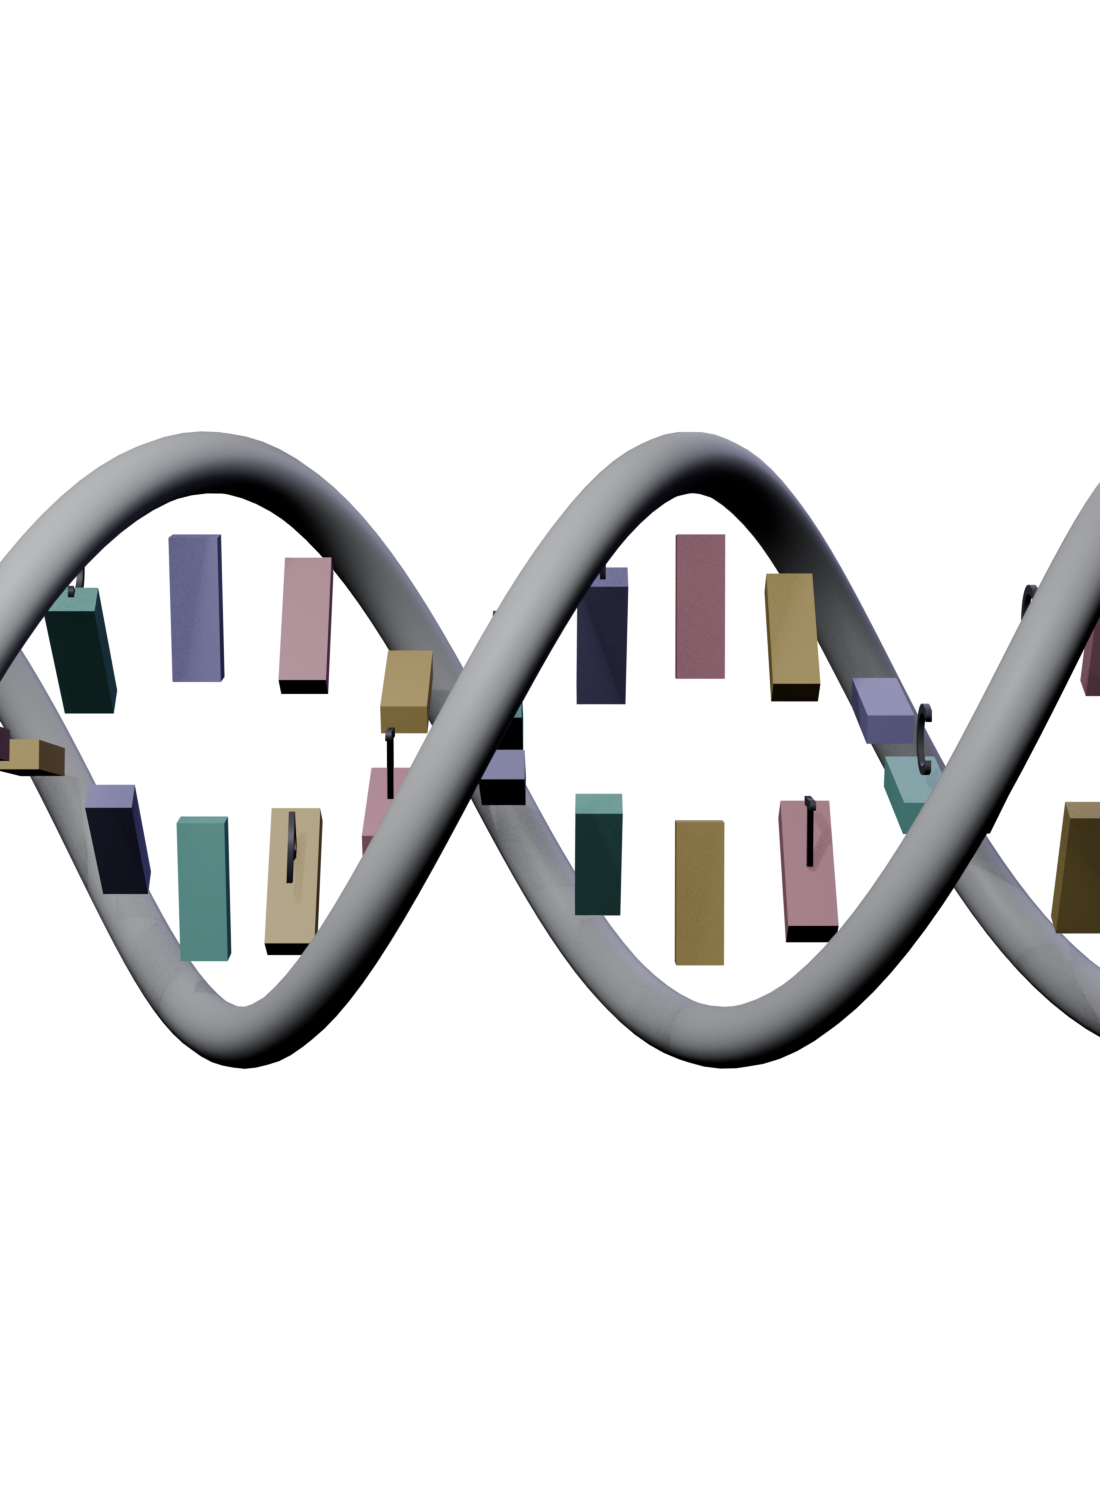
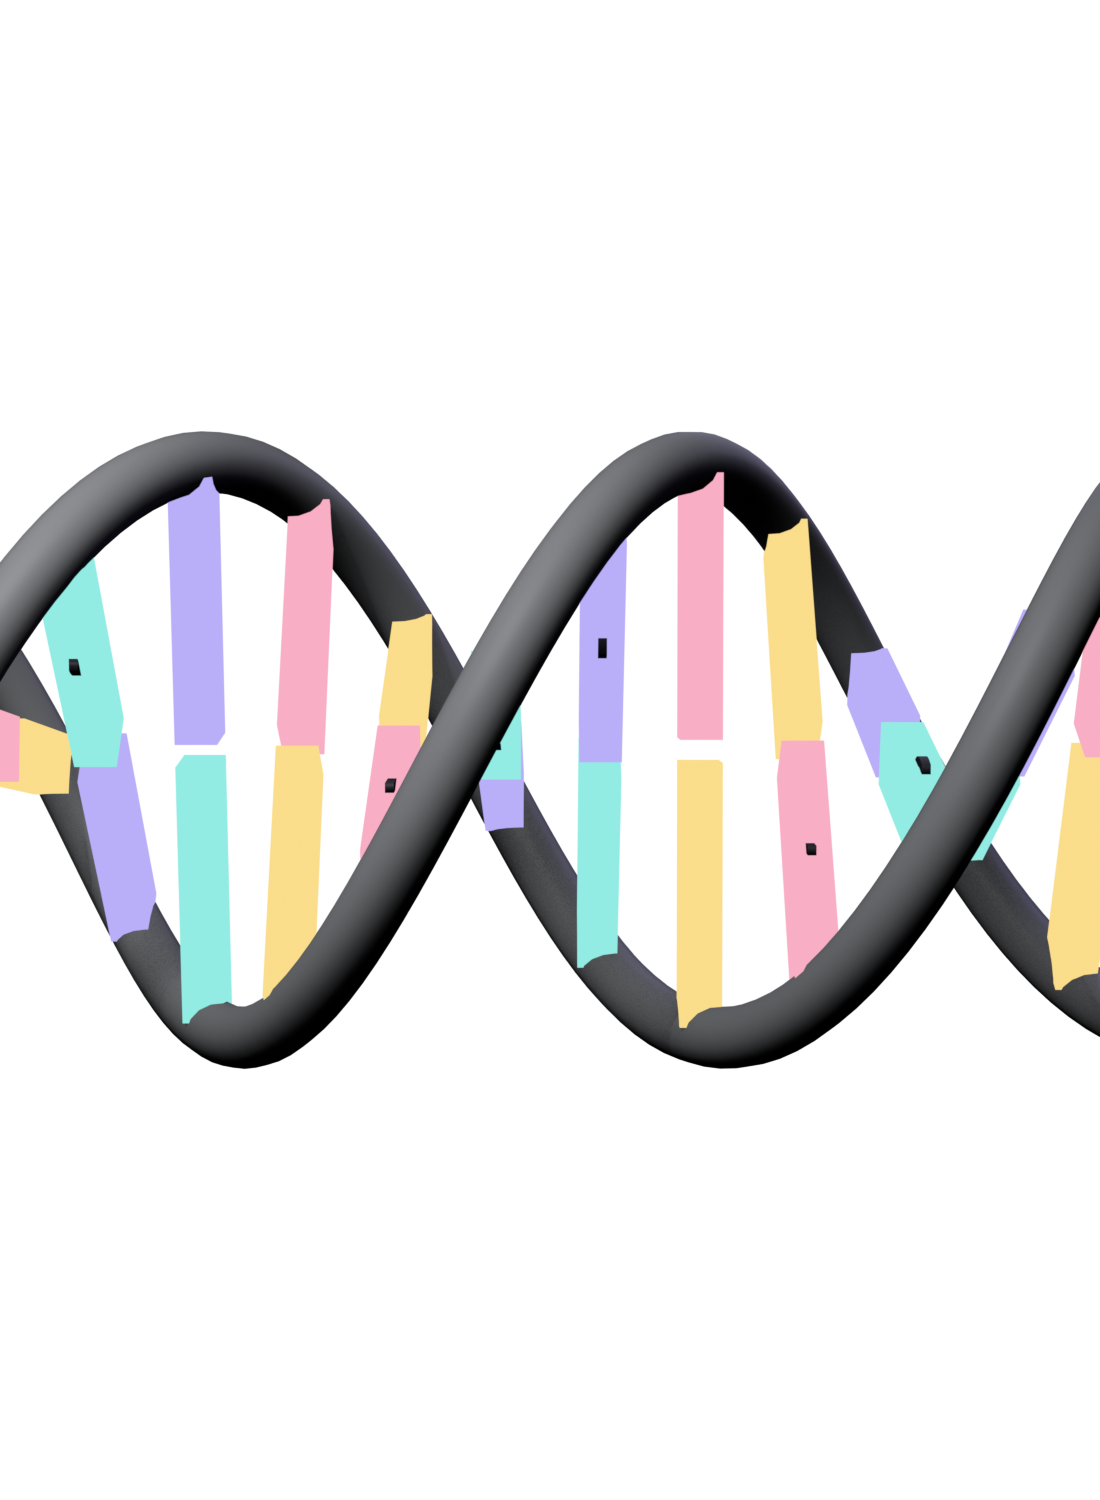
DNA: illustrated helix view + 3D/Illustrated toggle + base legend; add @types/three
- Re-rendered the illustrated ribbon-helix in Blender with vivid page-palette
  base pairs (Standard view transform fixes the pastel washout; emission shaders;
  distinct rungs).
- Helix section now toggles between '3D interactive' (live R3F) and 'Illustrated'
  (the Blender render), with a per-nucleotide legend (A/C/G/T names + pairing).
- Adds @types/three (audit finding): cuts app-code type errors 99 -> 15; the
  rest are pre-existing universe-engine R3F JSX typings.

Changed region(s): [[0.0, 0.276, 1.0, 0.7053]]

diff --git a/components/dna/dna-visualization.tsx b/components/dna/dna-visualization.tsx
@@ -6,6 +6,7 @@
  * the decrypted abstract summary (no raw loci).
  */
 
+import { useState } from "react"
 import dynamic from "next/dynamic"
 import { motion } from "framer-motion"
 import type { DnaSummary } from "@/lib/dna-crypto"
@@ -25,6 +26,7 @@ function fmt(n: number) {
 }
 
 export function DnaVisualization({ data }: { data: DnaSummary }) {
+  const [helixView, setHelixView] = useState<"3d" | "illustrated">("3d")
   const maxSnps = Math.max(...data.chromosomes.map((c) => c.snps))
   const { homozygous, heterozygous, noCall } = data.genotypeClasses
   const totalCalls = homozygous + heterozygous + noCall || 1
@@ -32,10 +34,10 @@ export function DnaVisualization({ data }: { data: DnaSummary }) {
   const homPct = ((homozygous / totalCalls) * 100).toFixed(1)
 
   const legend = [
-    { base: "A", color: "#f5b942", pair: "T" },
-    { base: "C", color: "#4ad6c4", pair: "G" },
-    { base: "G", color: "#7c6cf0", pair: "C" },
-    { base: "T", color: "#f06c8d", pair: "A" },
+    { base: "A", name: "Adenine", color: "#f5b942", pair: "T" },
+    { base: "C", name: "Cytosine", color: "#4ad6c4", pair: "G" },
+    { base: "G", name: "Guanine", color: "#7c6cf0", pair: "C" },
+    { base: "T", name: "Thymine", color: "#f06c8d", pair: "A" },
   ]
 
   return (
@@ -107,26 +109,94 @@ export function DnaVisualization({ data }: { data: DnaSummary }) {
         <DnaInheritance traits={data.traits} />
       )}
 
-      {/* Helix */}
+      {/* Helix — switchable between the live 3D render and the illustration */}
       <section>
-        <div className="flex items-baseline gap-4 mb-6">
-          <span aria-hidden className="block w-12 h-px bg-accent" />
-          <h2 className="font-display text-2xl md:text-3xl font-light tracking-[-0.01em]">
-            The double helix
-          </h2>
+        <div className="flex flex-wrap items-baseline justify-between gap-4 mb-6">
+          <div className="flex items-baseline gap-4">
+            <span aria-hidden className="block w-12 h-px bg-accent" />
+            <h2 className="font-display text-2xl md:text-3xl font-light tracking-[-0.01em]">
+              The double helix
+            </h2>
+          </div>
+          {/* View switcher */}
+          <div className="inline-flex rounded-full border border-border p-0.5 bg-background">
+            {([
+              ["3d", "3D interactive"],
+              ["illustrated", "Illustrated"],
+            ] as const).map(([key, label]) => (
+              <button
+                key={key}
+                type="button"
+                onClick={() => setHelixView(key)}
+                data-cursor-hover
+                aria-pressed={helixView === key}
+                className={`
+                  font-mono text-[10px] tracking-widest uppercase px-3 py-2 rounded-full min-h-9
+                  transition-colors
+                  ${helixView === key ? "bg-accent/15 text-accent" : "text-muted-foreground hover:text-foreground"}
+                `}
+              >
+                {label}
+              </button>
+            ))}
+          </div>
         </div>
-        <p className="max-w-2xl mb-6 font-sans text-sm md:text-base text-foreground/75 leading-relaxed">
-          A live render of {fmt(data.sample.length)} sampled base pairs from your
-          genome. Each rung is one pair; colour encodes the nucleotide
-          (<span className="text-[#f5b942]">A</span>,{" "}
-          <span className="text-[#4ad6c4]">C</span>,{" "}
-          <span className="text-[#7c6cf0]">G</span>,{" "}
-          <span className="text-[#f06c8d]">T</span>). Thicker rungs mark
-          heterozygous pairs — the spots where your two inherited copies differ.
+
+        <p className="max-w-2xl mb-5 font-sans text-sm md:text-base text-foreground/75 leading-relaxed">
+          {helixView === "3d" ? (
+            <>
+              A live render of {fmt(data.sample.length)} sampled base pairs from
+              your genome. Each rung is one pair; colour encodes the nucleotide.
+              Thicker rungs mark heterozygous pairs — the spots where your two
+              inherited copies differ.
+            </>
+          ) : (
+            <>
+              The classic double-helix diagram. Two sugar-phosphate backbones
+              twist around base pairs; each pair is two complementary nucleotides
+              bonded across the middle (A–T, C–G). The order of these letters
+              along the strand is the genetic code.
+            </>
+          )}
         </p>
-        <div className="relative h-[60vh] min-h-[420px] w-full rounded-lg border border-border bg-secondary/20 overflow-hidden">
-          <DnaHelix sample={data.sample} />
-        </div>
+
+        {/* Per-base legend — explains each nucleotide / strand */}
+        <ul className="mb-6 grid grid-cols-2 sm:grid-cols-4 gap-2.5">
+          {legend.map((l) => (
+            <li
+              key={l.base}
+              className="flex items-center gap-2.5 rounded-md border border-border bg-background px-3 py-2"
+            >
+              <span
+                aria-hidden
+                className="h-3.5 w-3.5 rounded-sm shrink-0"
+                style={{ backgroundColor: l.color }}
+              />
+              <span className="font-mono text-[11px] leading-tight">
+                <span style={{ color: l.color }}>{l.base}</span>
+                <span className="text-muted-foreground"> · {l.name}</span>
+                <br />
+                <span className="text-muted-foreground/70">pairs {l.pair}</span>
+              </span>
+            </li>
+          ))}
+        </ul>
+
+        {helixView === "3d" ? (
+          <div className="relative h-[60vh] min-h-[420px] w-full rounded-lg border border-border bg-secondary/20 overflow-hidden">
+            <DnaHelix sample={data.sample} />
+          </div>
+        ) : (
+          <div className="relative w-full rounded-lg border border-border bg-secondary/20 overflow-hidden grid place-items-center py-6">
+            <img
+              src="/img/dna/helix-illustrated.png"
+              alt="Illustrated double helix: two backbones with colour-coded base-pair rungs (A amber, C teal, G violet, T rose)"
+              loading="lazy"
+              decoding="async"
+              className="max-h-[60vh] w-auto"
+            />
+          </div>
+        )}
       </section>
 
       {/* Stat strip */}
